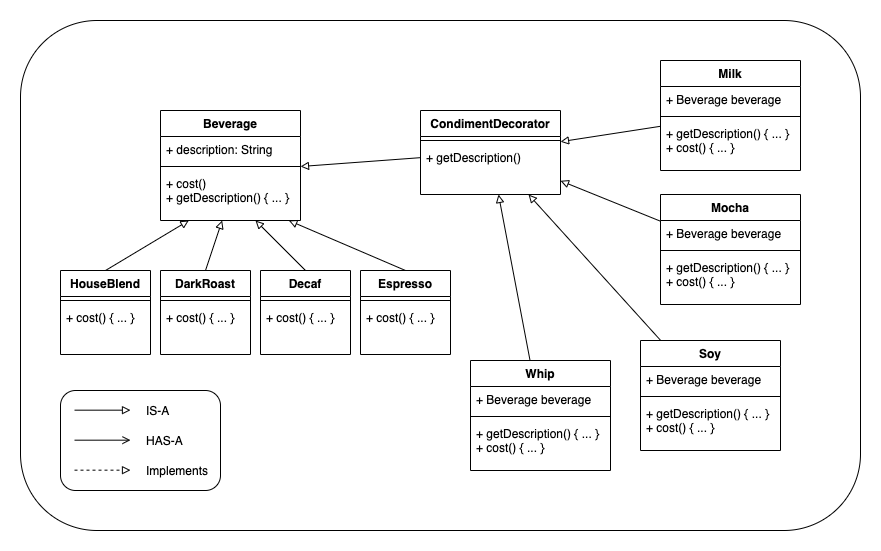
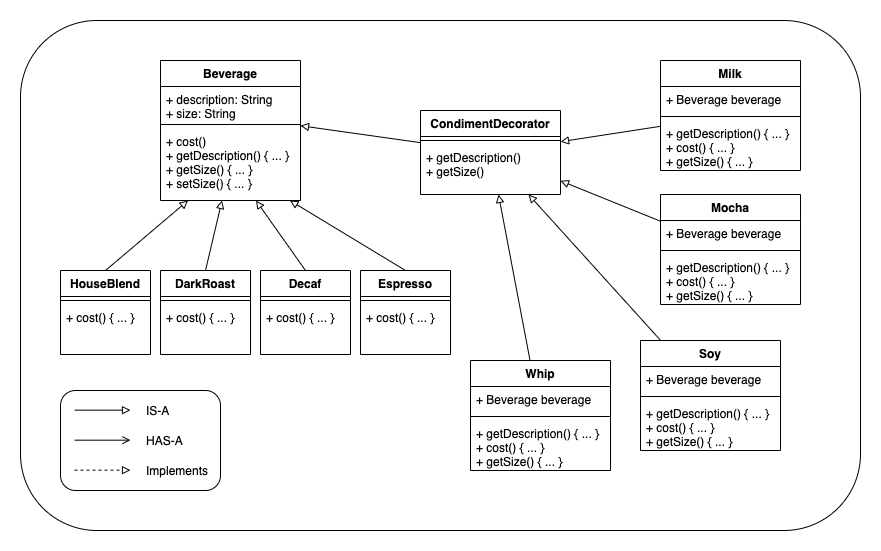
Decorator pattern

diff --git a/src/com/decorator/Beverage.java b/src/com/decorator/Beverage.java
@@ -3,11 +3,22 @@ package com.decorator;
 public abstract class Beverage {
 
     public String description = "Beverage";
+    public String size = "medium";
+
+    public String getDescription() {
+        return this.description + " " + this.getSize();
+    }
+
+    public void setSize(String size) {
+        if( size == "small" 
+            || size == "medium" 
+            || size == "large") this.size = size;
+    }
+
+    public String getSize() {
+        return this.size;
+    }
 
     public abstract float cost();
 
-    public String getDescription() {
-        return this.description;
-    }
-    
 }

diff --git a/src/App.java b/src/App.java
@@ -68,6 +68,14 @@ public class App {
         beverage3 = new Whip(beverage3);
         System.out.println(beverage3.getDescription() + " $" + beverage3.cost());
         System.out.println("--------");
+        Beverage beverage4 = new Decaf();
+        beverage4.setSize("large");
+        beverage4 = new Soy(beverage4);
+        beverage4 = new Mocha(beverage4);
+        beverage4 = new Whip(beverage4);
+        beverage4 = new Whip(beverage4);
+        System.out.println(beverage4.getDescription() + " $" + beverage4.cost());
+        System.out.println("--------");
 
     }
 }

diff --git a/src/com/decorator/decorators/Soy.java b/src/com/decorator/decorators/Soy.java
@@ -10,8 +10,18 @@ public class Soy extends CondimentDecorator {
         this.beverage = beverage;
     }
 
+    public String getSize() {
+        return this.beverage.getSize();
+    }
+
     public float cost() {
-        return this.beverage.cost() + 0.15f;
+        float cost = this.beverage.cost();
+        if(this.getSize() == "small") 
+            return cost + 0.10f;
+        if(this.getSize() == "large") 
+            return cost + 0.20f;
+        // Medium size
+        return cost + 0.15f;
     }
 
     public String getDescription() {

diff --git a/src/com/decorator/decorators/Mocha.java b/src/com/decorator/decorators/Mocha.java
@@ -10,6 +10,10 @@ public class Mocha extends CondimentDecorator {
         this.beverage = beverage;
     }
 
+    public String getSize() {
+        return this.beverage.getSize();
+    }
+
     public float cost() {
         return this.beverage.cost() + 0.20f;
     }

diff --git a/src/com/decorator/decorators/Milk.java b/src/com/decorator/decorators/Milk.java
@@ -10,6 +10,10 @@ public class Milk extends CondimentDecorator {
         this.beverage = beverage;
     }
 
+    public String getSize() {
+        return this.beverage.getSize();
+    }
+
     public float cost() {
         return this.beverage.cost() + 0.10f;
     }

diff --git a/src/com/decorator/decorators/Whip.java b/src/com/decorator/decorators/Whip.java
@@ -10,6 +10,10 @@ public class Whip extends CondimentDecorator {
         this.beverage = beverage;
     }
 
+    public String getSize() {
+        return this.beverage.getSize();
+    }
+
     public float cost() {
         return this.beverage.cost() + 0.10f;
     }

diff --git a/src/com/decorator/decorators/CondimentDecorator.java b/src/com/decorator/decorators/CondimentDecorator.java
@@ -5,5 +5,6 @@ import com.decorator.Beverage;
 public abstract class CondimentDecorator extends Beverage {
 
     public abstract String getDescription();
+    public abstract String getSize();
     
 }
